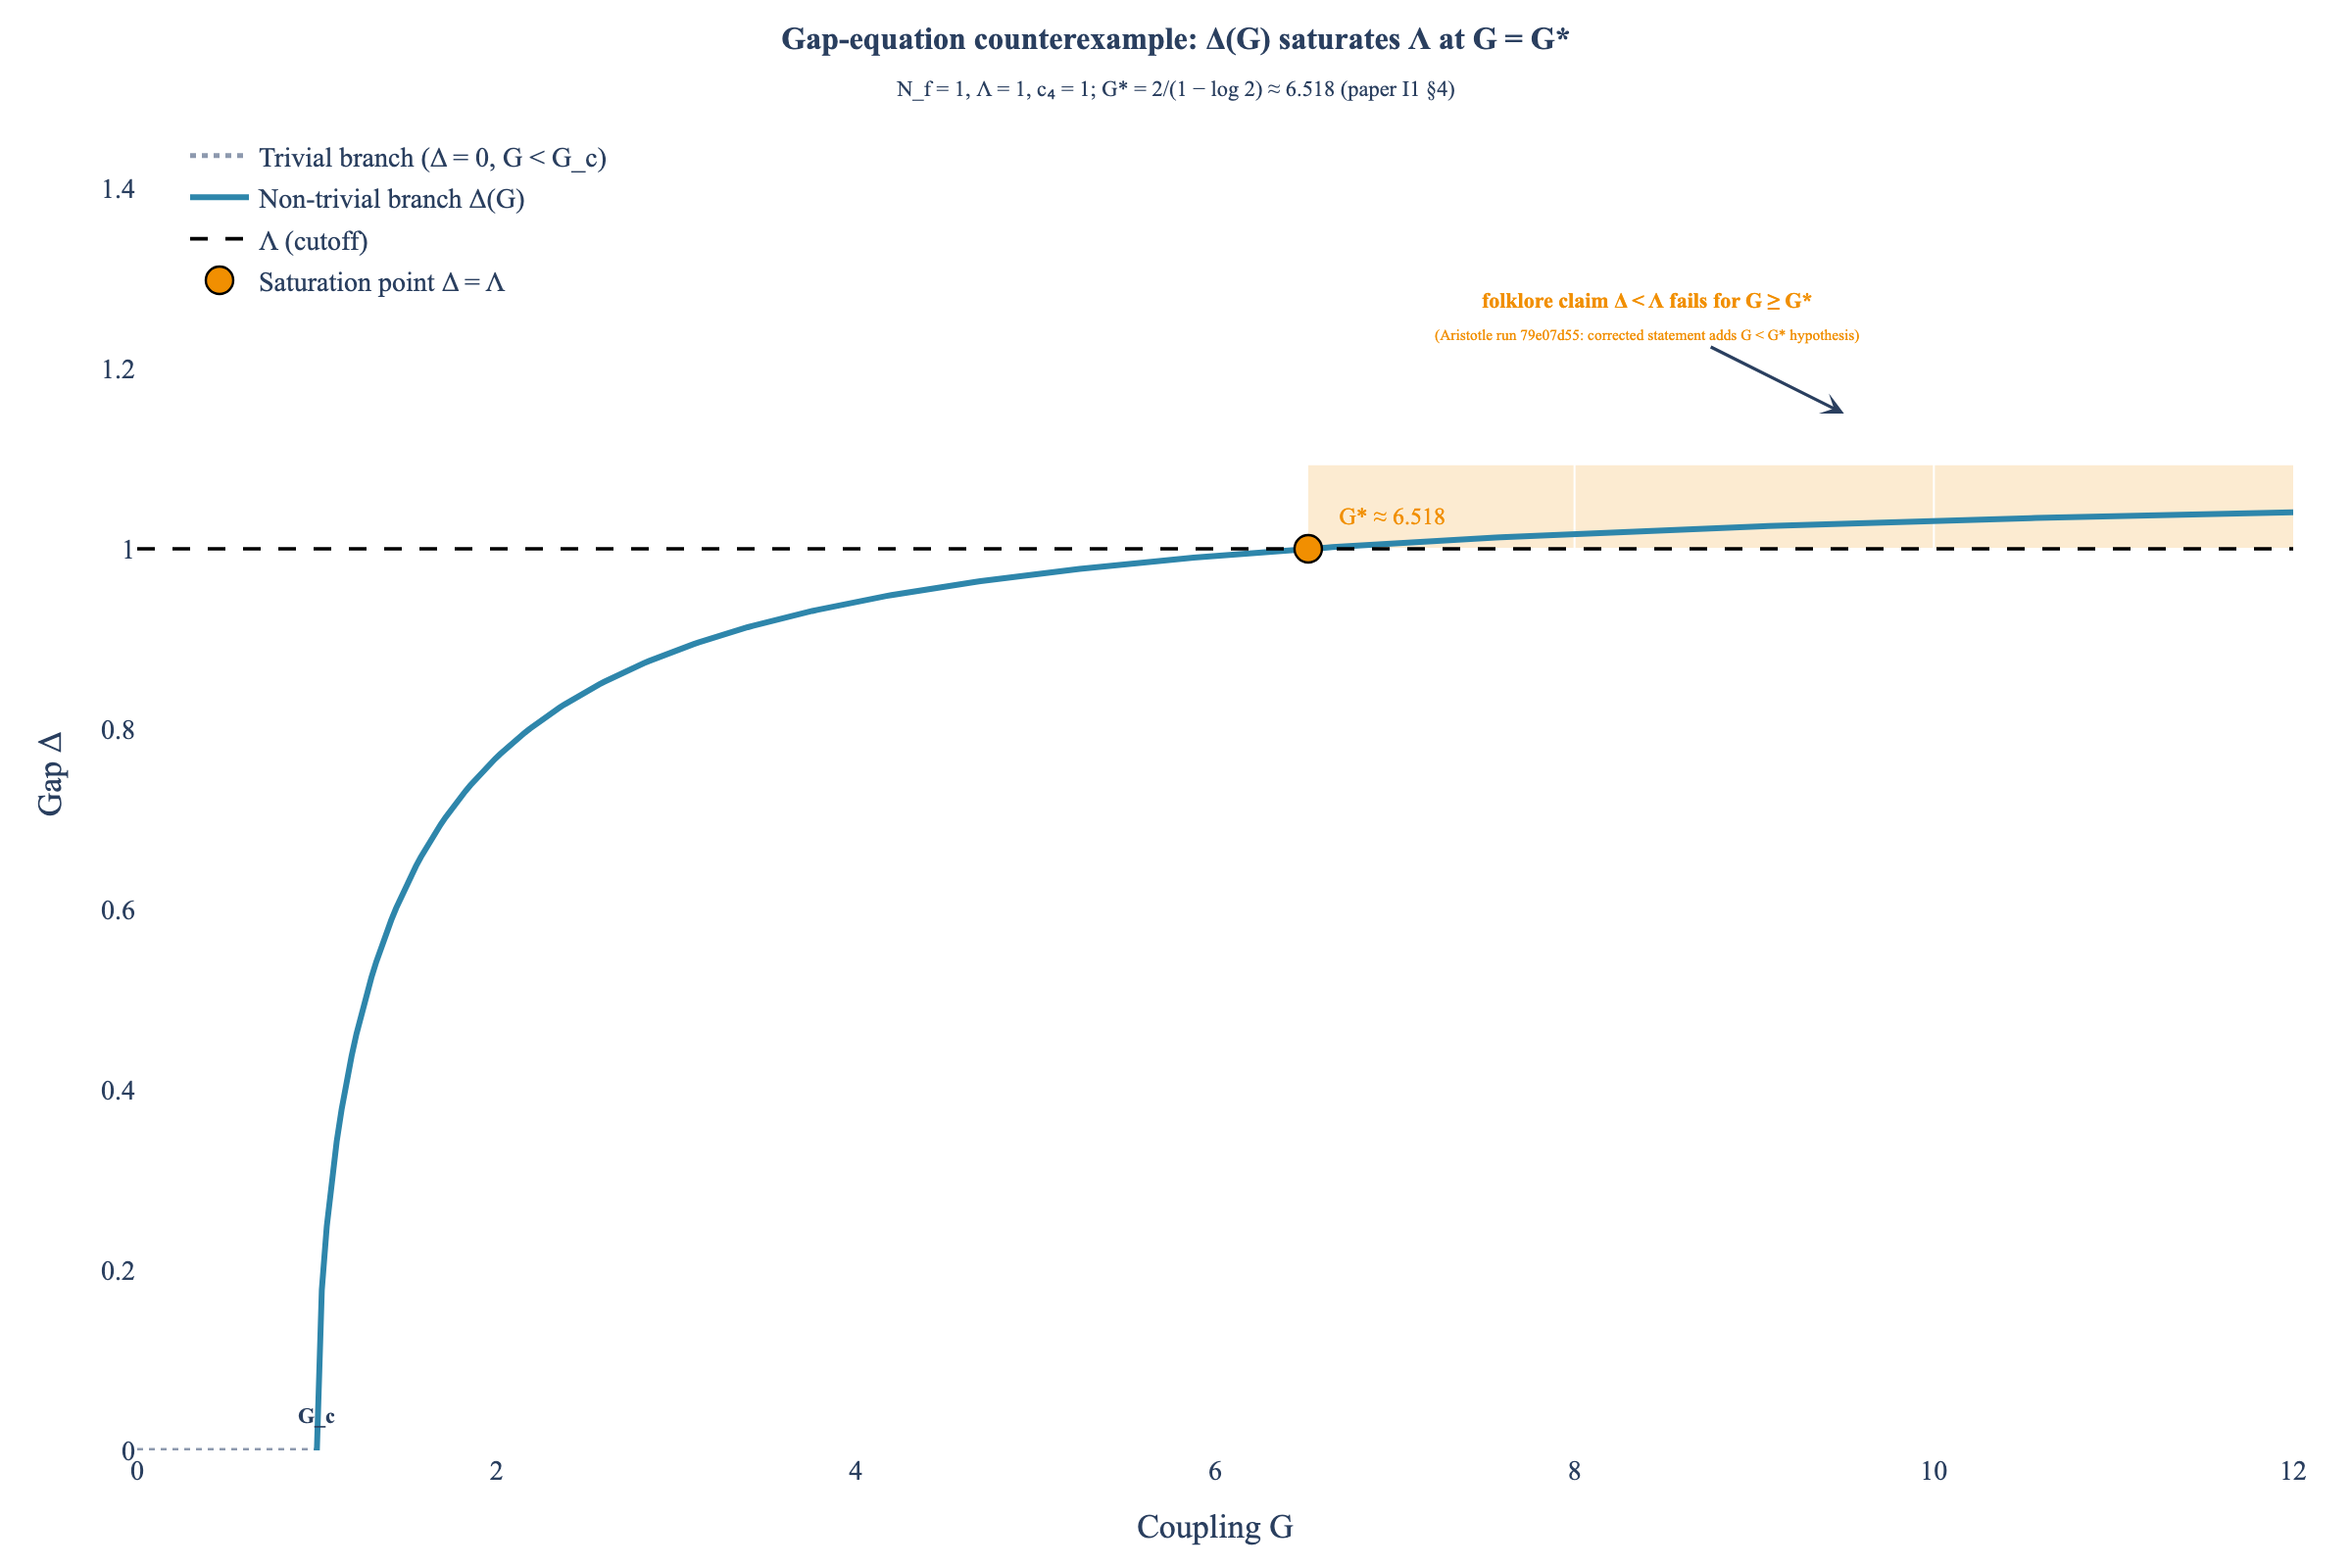
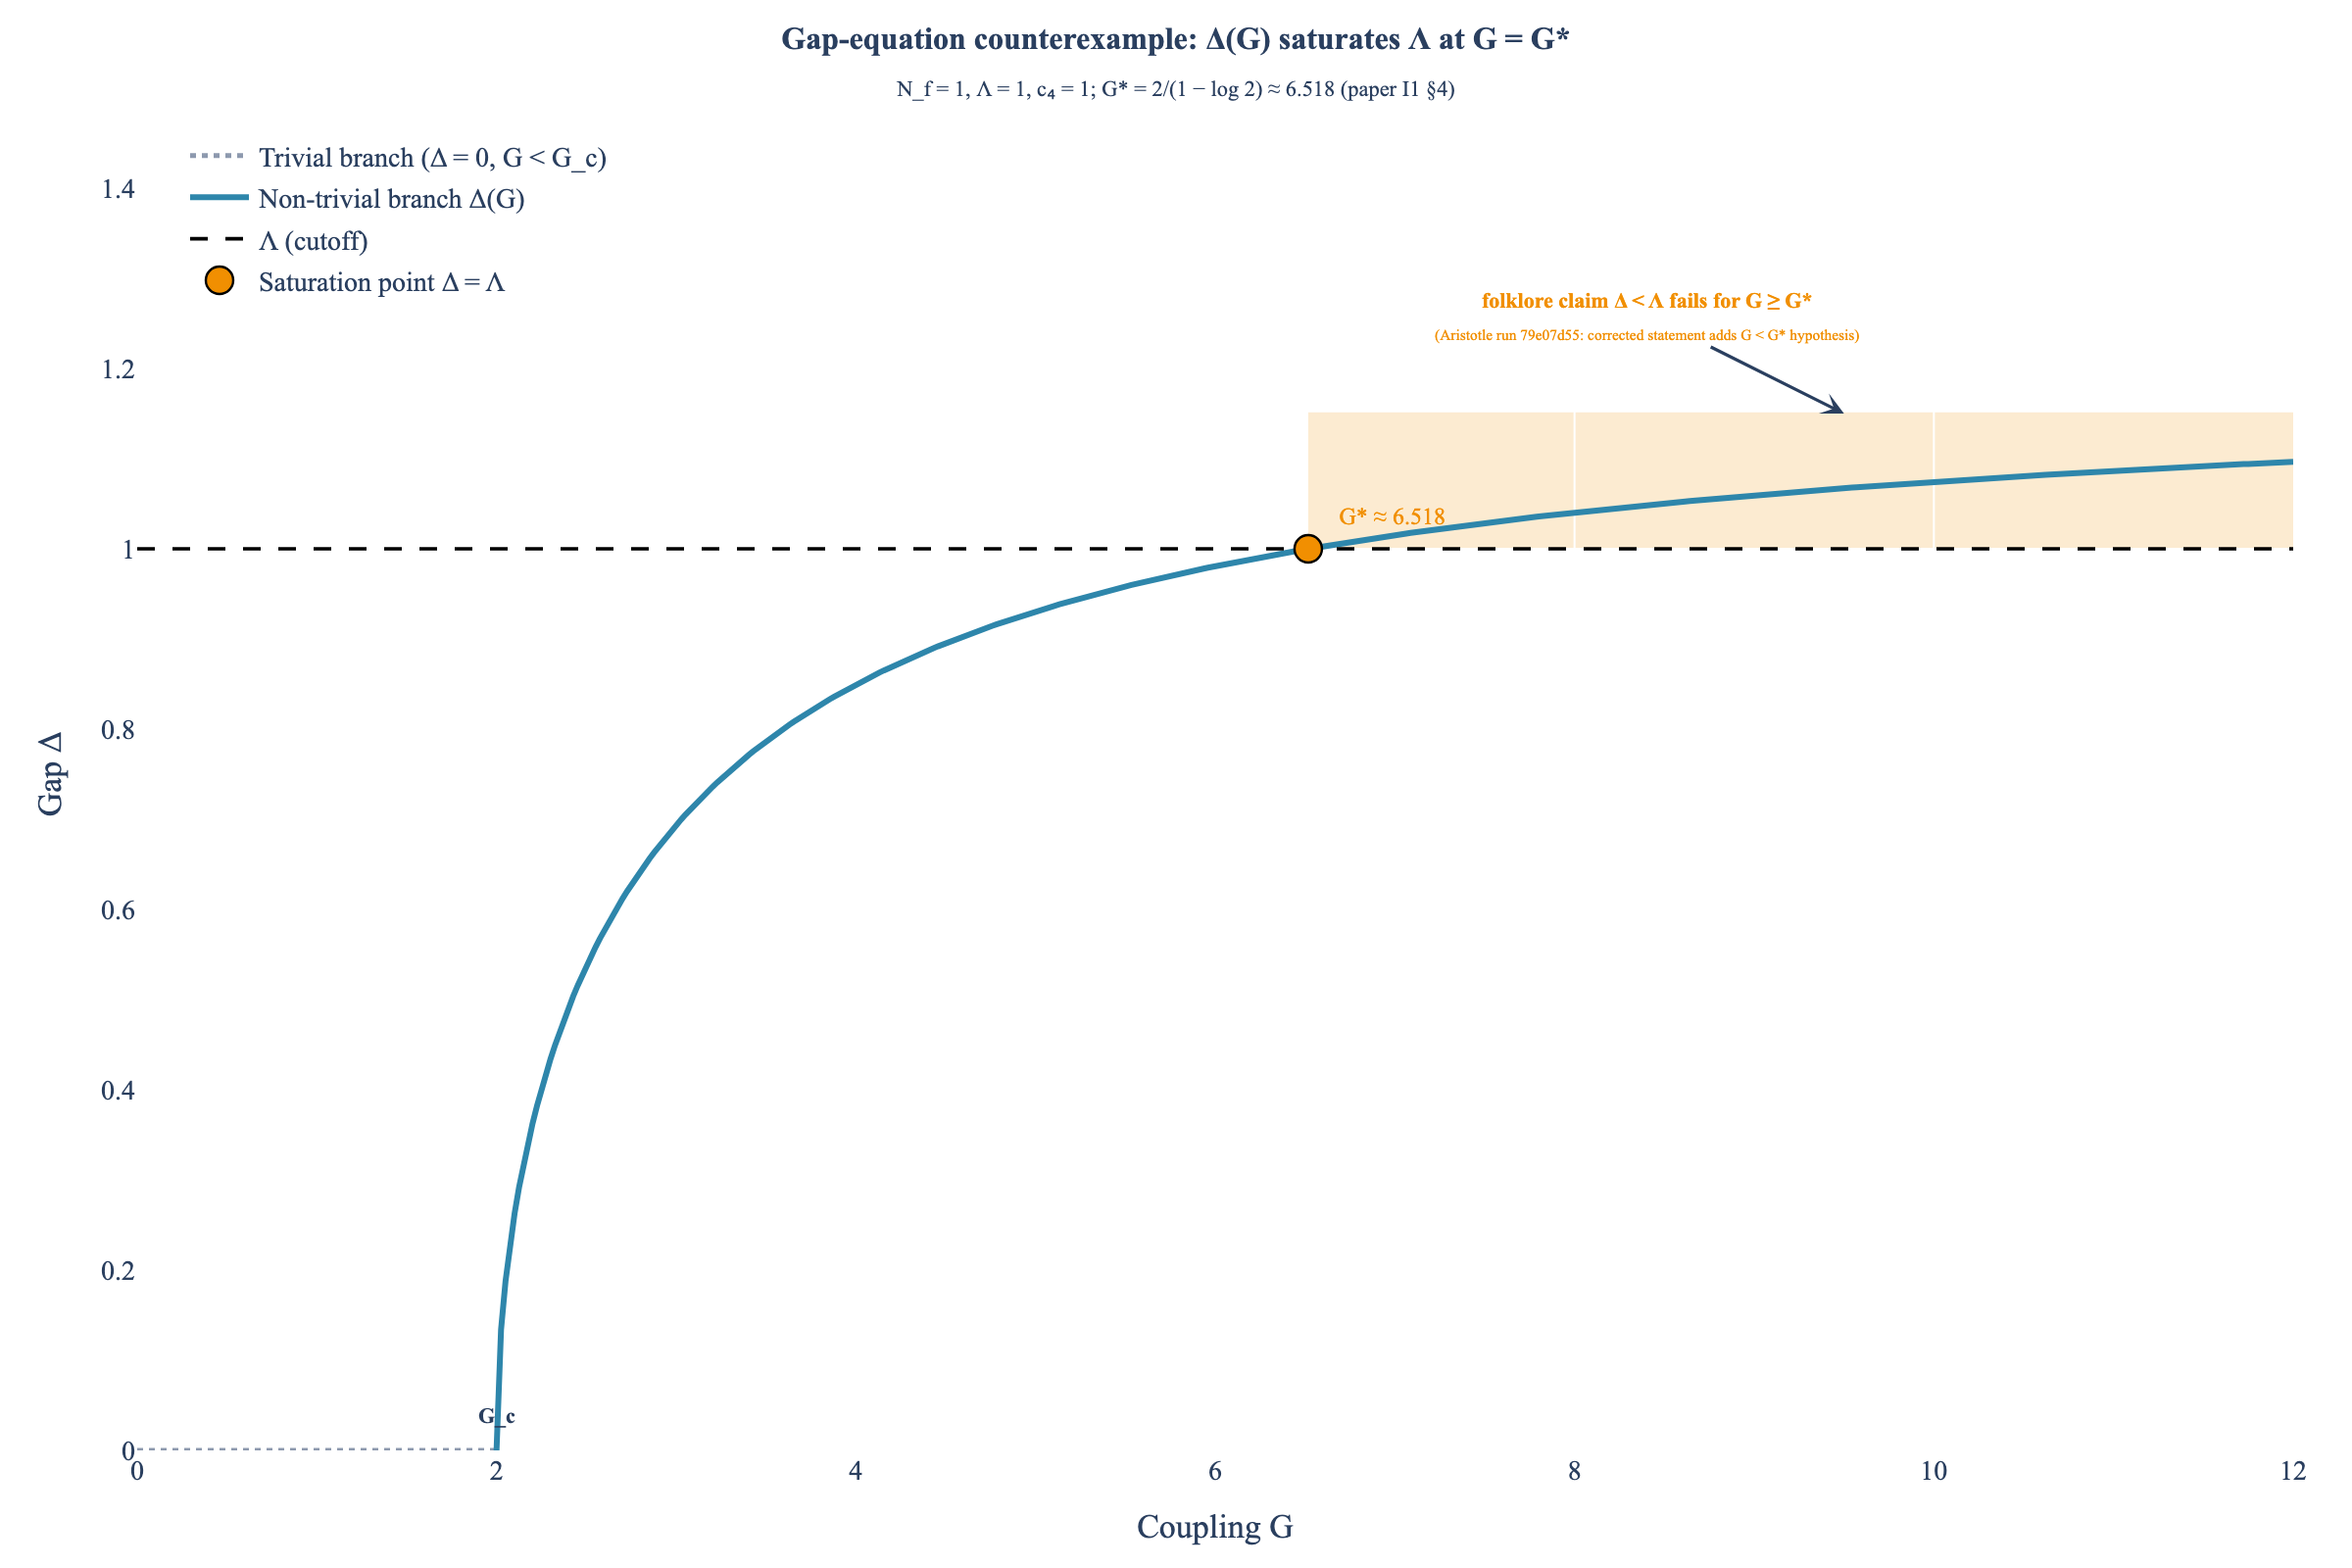
fix(viz): derive I1-FIG-5's couplings from the convention instead of typing them
fig_i1_gap_counterexample hardcoded G_c = 1.0 while its docstring declared
the c_4 = Lambda = N_f = 1 convention, in which criticalCoupling_formula
gives G_c = 1/(N_f I(0)) = 2/c_4 = 2. The rendered saturation ratio
G*/G_c therefore read 6.5 against a verified 1/(1 - log 2) = 3.2589.

Both couplings are now derived from c_4 rather than typed, so this class
of drift is impossible rather than merely corrected: G_c = 2/c_4 and
G* = G_c/(1 - log 2). Verified ratio 3.2589 = 1/(1 - log 2). Figure
regenerated; caption now states the derived values and says they are
derived.

Retires one of I1's live TODO markers by fixing the defect it recorded,
not by softening the sentence. 7 live TODOs -> 6.

Filed as D45-c; closing it here rather than leaving it, because a figure
that contradicts the theorem it illustrates is an error, not a scoping
decision.

diff --git a/src/core/visualizations.py b/src/core/visualizations.py
@@ -13340,19 +13340,26 @@ def fig_i1_gap_counterexample() -> "go.Figure":
       (i)   trivial branch Δ = 0 for G < G_c,
       (ii)  non-trivial branch Δ(G) > 0 for G > G_c,
       (iii) horizontal line at Δ = Λ = 1,
-      (iv)  marked saturation point G* where Δ = Λ
-            (with c_4 = 1, G* = 2 / (1 - log 2) ≈ 6.518),
+      (iv)  marked saturation point G* where Δ = Λ,
       (v)   region G ≥ G* where the original folklore Δ < Λ fails.
 
     Uses an analytic interpolation through (G_c, 0), (G*, Λ) that respects
     the qualitative gap-equation structure (no numerical Newton solve
     needed — the figure's purpose is to display the saturation event).
+
+    ⚠ BOTH couplings are DERIVED from the stated convention, not typed.
+    Fixed 2026-08-11 (ARCHITECTURE_TODOs D45-c): G_c had been hardcoded to
+    1.0 while the docstring declared c_4 = 1, in which criticalCoupling_formula
+    gives G_c = 1/(N_f I(0)) = 2/c_4 = 2. The rendered ratio G*/G_c therefore
+    read 6.5 where the verified value is 1/(1 - log 2) ≈ 3.26. Deriving both
+    from c_4 makes that class of drift impossible rather than merely fixed.
     """
     Lambda = 1.0
-    # G_c at the boundary of the pre-geometric / Δ > 0 phase
-    G_c = 1.0
-    # Saturation coupling: Δ = Λ ⇒ G* = 2/(1 - log 2) (paper-textual constant)
-    G_star = 2.0 / (1.0 - np.log(2.0))   # ≈ 6.518
+    c_4 = 1.0                            # figure convention, stated in the caption
+    # G_c = 1/(N_f · I(0)) with I(0) = c_4 Λ²/2 and N_f = Λ = 1  ⇒  2/c_4.
+    G_c = 2.0 / c_4
+    # Saturation: Δ = Λ ⇒ I(Λ) = I(0)(1 - log 2) ⇒ G* = G_c/(1 - log 2).
+    G_star = G_c / (1.0 - np.log(2.0))
 
     # Trivial branch
     G_trivial = np.linspace(0.0, G_c, 80)

diff --git a/papers/I1/paper_draft.tex b/papers/I1/paper_draft.tex
@@ -781,20 +781,17 @@ with $G$ (\texttt{gap\_solution\_monotone}). The branch meets the
 cutoff at the saturation coupling $G^{\ast} = G_c/(1-\log 2)$ (amber
 marker), which is where the counterexample returned in Aristotle
 run~\texttt{79e07d55} sits, and exceeds it throughout the amber region,
-where the conjectured bound $\Delta < \Lambda$ fails. The onset and the
+where the conjectured bound $\Delta < \Lambda$ fails. In the figure's
+convention $c_4 = \Lambda = N_f = 1$ the two couplings are $G_c = 2$ and
+$G^{\ast} = 2/(1-\log 2)$, a ratio of $1/(1-\log 2) \approx 3.26$; both
+are derived in the generator from $c_4$ rather than typed, so the
+displayed ratio cannot drift from the verified one. The onset and the
 saturation point are exact; the branch drawn between and beyond them is
 an interpolation respecting the square-root onset, not a numerical
 solution of Eq.~(\ref{eq:gapeq}).}
 \label{fig:gap_counterexample}
 \end{figure}
 
-% TODO: the generator fig_i1_gap_counterexample in
-% src/core/visualizations.py places the onset at G = 1 while declaring
-% the c_4 = Lambda = N_f = 1 convention, in which
-% criticalCoupling_formula gives G_c = 2. The rendered figure therefore
-% shows a G*/G_c ratio of 6.5 where the verified ratio is
-% 1/(1 - log 2) = 3.26. The figure must be regenerated before
-% submission; the caption above avoids asserting either numeral.
 
 The general lesson is narrower than ``formal methods find bugs'' and
 more useful. A pen-and-paper theorem inherits its hypotheses from the
